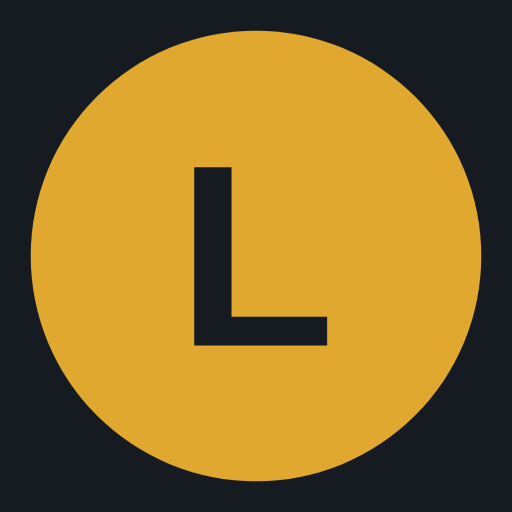
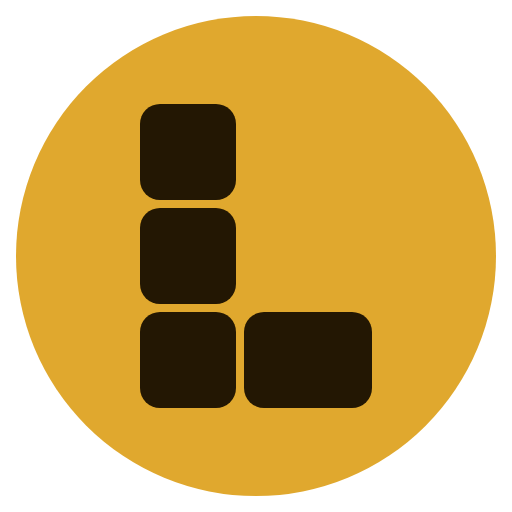
로고: 금화 안의 블록 L, 그리고 아이콘 한 곳에서 만들기
탭에 리액트 로고가 떠 있었다. create-react-app 이 넣어 준 favicon.ico 를
한 번도 갈아 끼우지 않아서다 — 남의 상표를 달고 있었던 셈이다.
헤더의 마크도 원 안에 글자 "L" 을 얹은 임시방편이었다.

마크
- 금화 안에 블록 네 개로 쌓은 L. 세로로 셋, 오른쪽 아래로 뻗은 발 하나.
  블록 사이의 틈이 "이어 붙인 블록"을 말한다.
- 시안 다섯 개를 16px 부터 512px 까지 실제 크기로 그려 놓고 골랐다.
  틈을 넓게 벌린 안은 512px 에서는 그럴듯한데 16px 파비콘에서 점 세 개로
  뭉개졌다. 지금 틈은 1/64 이라 16px 에서는 사라져 통짜 L 로 읽히고
  48px 부터 블록이 드러난다.
- 색은 테마를 따르지 않는다. 처음에는 다른 요소처럼 --accent 를 썼는데
  라이트에서 원이 짙은 갈색이 되어 금화로 보이지 않았고, 무엇보다 탭의
  파비콘과 화면 속 로고가 서로 다른 물건처럼 보였다.

원본은 하나
- 모양은 src/logo.json 에만 있다. 화면 속 로고(Components/Logo)와
  파비콘·PWA 아이콘이 같은 좌표를 읽는다 — 헤더를 고쳤는데 파비콘만 옛
  모양으로 남는 일이 없게.
- scripts/icons.js 가 SVG 를 만들고, --png 를 붙이면 PNG 와 ICO 까지
  만든다. 의존성은 없고 PNG 만 헤드리스 크로미움이 필요하다.
- favicon.ico 는 16·32·48 세 장을 담은 PNG-in-ICO 로 직접 묶는다.
  ICO 는 BMP 만 담던 옛 형식이지만 요즘 브라우저는 안의 PNG 를 읽는다.
- icon.svg 의 바탕을 비웠다. 예전 판은 #161b22 사각형을 깔아서 밝은 탭
  막대에 검은 네모가 붙었다.

아이콘 6종이 브라우저에서 실제로 읽히는지 확인했고, 명암비는 라이트/다크
전 화면 AA 를 그대로 넘는다.

Claude-Session: https://claude.ai/code/session_01NjJpkQfTzKydrXPajxFNEQ

diff --git a/scripts/icons.js b/scripts/icons.js
@@ -1,0 +1,170 @@
+#!/usr/bin/env node
+/**
+ * 브랜드 마크에서 아이콘 파일을 만든다.
+ *
+ * 모양의 원본은 src/logo.json 하나뿐이다. 화면 안의 로고(Components/Logo)와
+ * 파비콘·PWA 아이콘이 같은 좌표를 쓴다 — 예전처럼 헤더의 로고를 고쳤는데
+ * 파비콘은 옛 모양으로 남는 일이 없게.
+ *
+ *   node scripts/icons.js         SVG 만 다시 만든다 (의존성 없음)
+ *   node scripts/icons.js --png   PNG·ICO 까지 (헤드리스 크로미움이 필요하다)
+ *
+ * --png 는 playwright-core 와 크로미움을 찾을 수 있을 때만 된다. 아이콘은
+ * 자주 바꾸는 것이 아니라 결과물을 저장소에 함께 두고, 마크를 고칠 때만
+ * 이 명령을 돌린다.
+ *
+ *   npm i -D playwright-core && node scripts/icons.js --png
+ *   PLAYWRIGHT_CHROMIUM=/경로/chrome node scripts/icons.js --png
+ */
+const fs = require("fs");
+const path = require("path");
+const logo = require("../src/logo.json");
+
+const OUT = path.resolve(__dirname, "..", "public");
+const { viewBox: V, disc, rx, blocks, gold, ink, backdrop } = logo;
+
+const rects = (fill, scale = 1, cx = V / 2, cy = V / 2) =>
+  blocks
+    .map(([x, y, w, h]) => {
+      const nx = (cx + (x - V / 2) * scale).toFixed(2);
+      const ny = (cy + (y - V / 2) * scale).toFixed(2);
+      return `<rect x="${nx}" y="${ny}" width="${(w * scale).toFixed(2)}" height="${(h * scale).toFixed(2)}" rx="${(rx * scale).toFixed(2)}" fill="${fill}"/>`;
+    })
+    .join("");
+
+const open = size =>
+  `<svg xmlns="http://www.w3.org/2000/svg" width="${size}" height="${size}" viewBox="0 0 ${V} ${V}">`;
+
+/*
+ * 바탕이 비어 있는 판. 브라우저 탭이 밝든 어둡든 금화만 떠 있으면 된다.
+ * 예전 판은 #161b22 사각형을 깔아서, 밝은 탭 막대에 검은 네모가 붙었다.
+ */
+const plain = size => `${open(size)}
+  <circle cx="${disc.cx}" cy="${disc.cy}" r="${disc.r}" fill="${gold}"/>
+  ${rects(ink)}
+</svg>
+`;
+
+/*
+ * iOS 홈 화면용. 애플이 알아서 모서리를 둥글려 주므로 바탕을 꽉 채운다 —
+ * 투명하게 두면 검은 사각형 위에 얹힌다.
+ */
+const filled = size => `${open(size)}
+  <rect width="${V}" height="${V}" fill="${gold}"/>
+  ${rects(ink, 0.72)}
+</svg>
+`;
+
+/*
+ * 안드로이드 maskable. 기기마다 원·둥근사각형 등으로 잘라 내므로,
+ * 가장자리 20% 안에는 아무것도 두지 않는다(안전 영역 = 지름의 80%).
+ */
+const maskable = size => `${open(size)}
+  <rect width="${V}" height="${V}" fill="${backdrop}"/>
+  <circle cx="${disc.cx}" cy="${disc.cy}" r="${disc.r * 0.8}" fill="${gold}"/>
+  ${rects(ink, 0.8)}
+</svg>
+`;
+
+const SVGS = {
+  "icon.svg": plain(512),
+  "icon-apple.svg": filled(512),
+  "icon-maskable.svg": maskable(512)
+};
+
+const writeSvgs = () => {
+  Object.entries(SVGS).forEach(([name, body]) => {
+    fs.writeFileSync(path.join(OUT, name), body);
+    console.log(`${name}`);
+  });
+};
+
+/*
+ * PNG 여러 장을 ICO 한 장으로 묶는다.
+ *
+ * ICO 는 BMP 만 담을 수 있던 옛 형식이지만, 요즘 브라우저는 안에 PNG 가
+ * 들어 있어도 읽는다. 그래서 PNG 를 그대로 넣는다 — BMP 인코더를 쓸 이유가 없다.
+ */
+const packIco = images => {
+  const count = images.length;
+  const header = Buffer.alloc(6);
+  header.writeUInt16LE(0, 0); // reserved
+  header.writeUInt16LE(1, 2); // 1 = 아이콘
+  header.writeUInt16LE(count, 4);
+
+  const dir = Buffer.alloc(16 * count);
+  let offset = 6 + 16 * count;
+  images.forEach(({ size, data }, i) => {
+    const at = i * 16;
+    dir.writeUInt8(size >= 256 ? 0 : size, at); // 0 은 256 을 뜻한다
+    dir.writeUInt8(size >= 256 ? 0 : size, at + 1);
+    dir.writeUInt8(0, at + 2); // 팔레트 색 수 (PNG 라 0)
+    dir.writeUInt8(0, at + 3); // reserved
+    dir.writeUInt16LE(1, at + 4); // 색면 수
+    dir.writeUInt16LE(32, at + 6); // 비트 깊이
+    dir.writeUInt32LE(data.length, at + 8);
+    dir.writeUInt32LE(offset, at + 12);
+    offset += data.length;
+  });
+
+  return Buffer.concat([header, dir, ...images.map(i => i.data)]);
+};
+
+const writePngs = async () => {
+  let chromium;
+  try {
+    ({ chromium } = require("playwright-core"));
+  } catch (e) {
+    console.error(
+      "PNG 를 만들려면 playwright-core 가 필요합니다:\n" +
+        "  npm i -D playwright-core && node scripts/icons.js --png\n" +
+        "SVG 만 다시 만들었습니다."
+    );
+    process.exitCode = 1;
+    return;
+  }
+
+  const browser = await chromium.launch(
+    process.env.PLAYWRIGHT_CHROMIUM ? { executablePath: process.env.PLAYWRIGHT_CHROMIUM } : {}
+  );
+  const shoot = async (svg, size) => {
+    const ctx = await browser.newContext({
+      viewport: { width: size, height: size },
+      deviceScaleFactor: 1
+    });
+    const page = await ctx.newPage();
+    await page.setContent(`<style>html,body{margin:0;padding:0}</style>${svg}`);
+    await page.waitForTimeout(120);
+    const buffer = await page.screenshot({ omitBackground: true });
+    await ctx.close();
+    return buffer;
+  };
+
+  const jobs = [
+    ["icon-192.png", plain, 192],
+    ["icon-512.png", plain, 512],
+    ["icon-maskable-512.png", maskable, 512],
+    ["apple-touch-icon.png", filled, 180]
+  ];
+  for (const [name, make, size] of jobs) {
+    fs.writeFileSync(path.join(OUT, name), await shoot(make(size), size));
+    console.log(`${name} ${size}x${size}`);
+  }
+
+  // 파비콘은 16·32·48 세 장을 한 파일에 담는다 (브라우저가 골라 쓴다)
+  const images = [];
+  for (const size of [16, 32, 48]) {
+    images.push({ size, data: await shoot(plain(size), size) });
+  }
+  fs.writeFileSync(path.join(OUT, "favicon.ico"), packIco(images));
+  console.log("favicon.ico 16/32/48");
+
+  await browser.close();
+};
+
+(async () => {
+  writeSvgs();
+  if (process.argv.includes("--png")) {
+    await writePngs();
+  }
+})();

diff --git a/src/Components/Logo/Logo.js b/src/Components/Logo/Logo.js
@@ -1,0 +1,59 @@
+import React from "react";
+import PropTypes from "prop-types";
+import logo from "../../logo.json";
+
+/*
+ * LimCoin 마크.
+ *
+ * 금화(원) 안에 블록 네 개로 쌓은 L — 세로로 셋, 오른쪽 아래로 뻗은 발 하나.
+ * 블록 사이의 틈이 "이어 붙인 블록"을 말한다.
+ *
+ * 작은 데서 무너지지 않는 것을 첫 조건으로 잡았다. 틈을 넓게 벌린 시안은
+ * 512px 에서는 그럴듯한데 16px 파비콘에서 점 세 개로 뭉개졌다. 지금 틈은
+ * 1/64 이라 16px 에서는 사라져 통짜 L 로 읽히고, 48px 부터 블록이 보인다.
+ *
+ * 색은 **테마를 따르지 않는다.** 라이트/다크 어느 쪽에서도 같은 금색 원에
+ * 같은 검은 블록이다. 처음에는 다른 요소들처럼 테마 토큰(--accent)을 썼는데,
+ * 라이트에서 원이 짙은 갈색(#936615)이 되어 "금화"로 보이지 않았고 무엇보다
+ * **탭의 파비콘과 화면 속 로고가 서로 다른 물건처럼** 보였다. 상표는 배경이
+ * 바뀐다고 색이 바뀌는 것이 아니다.
+ *
+ * 흰 배경 위에서 금색 원의 테두리 대비는 약하지만, 안의 검은 블록이 형태를
+ * 잡아 준다. 명암비 기준(WCAG 1.4.11)도 로고타입은 대상에서 빼 준다.
+ *
+ * 모양의 원본은 src/logo.json 이다. 여기서 좌표를 고치지 말 것 —
+ * 파비콘·PWA 아이콘이 같은 파일에서 만들어진다(scripts/icons.js).
+ */
+const Logo = ({ size, disc, ink, title }) => (
+  <svg
+    width={size}
+    height={size}
+    viewBox={`0 0 ${logo.viewBox} ${logo.viewBox}`}
+    role={title ? "img" : "presentation"}
+    aria-label={title || undefined}
+    aria-hidden={title ? undefined : "true"}
+    style={{ flex: "none", display: "block" }}
+  >
+    <circle cx={logo.disc.cx} cy={logo.disc.cy} r={logo.disc.r} fill={disc} />
+    {logo.blocks.map(([x, y, w, h]) => (
+      <rect key={`${x}-${y}`} x={x} y={y} width={w} height={h} rx={logo.rx} fill={ink} />
+    ))}
+  </svg>
+);
+
+Logo.propTypes = {
+  size: PropTypes.number,
+  disc: PropTypes.string,
+  ink: PropTypes.string,
+  // 글자로 읽어 줄 이름. 옆에 "LimCoin" 이 적혀 있으면 비워 둔다(두 번 읽힌다).
+  title: PropTypes.string
+};
+
+Logo.defaultProps = {
+  size: 26,
+  disc: logo.gold,
+  ink: logo.ink,
+  title: ""
+};
+
+export default Logo;

diff --git a/src/Components/Header/HeaderPresenter.js b/src/Components/Header/HeaderPresenter.js
@@ -5,6 +5,7 @@ import { Link, NavLink } from "react-router-dom";
 import { breakpoint, radius, space, tap } from "../../theme";
 import Search from "Components/Search";
 import ThemeToggle from "Components/ThemeToggle";
+import Logo from "Components/Logo";
 
 const Bar = styled.header`
   width: 100%;
@@ -47,18 +48,6 @@ const Brand = styled(Link)`
   @media (max-width: ${breakpoint.sm}) {
     min-height: ${tap.touch};
   }
-`;
-
-const Coin = styled.span`
-  display: grid;
-  place-items: center;
-  width: 26px;
-  height: 26px;
-  border-radius: 50%;
-  background: var(--accent);
-  color: var(--surface);
-  font-size: 13px;
-  font-weight: 800;
 `;
 
 /*
@@ -169,7 +158,11 @@ const HeaderPresenter = ({ live }) => (
   <Bar>
     <Inner>
       <Brand to="/">
-        <Coin>L</Coin>
+        {/*
+          마크 옆에 "LimCoin" 이 글자로 붙어 있으므로 로고에는 이름을 주지
+          않는다 — 주면 화면 읽어 주는 도구가 "LimCoin LimCoin" 으로 읽는다.
+        */}
+        <Logo size={26} />
         LimCoin
         <Live on={live} title={live ? "노드와 연결되어 있습니다" : "연결이 끊겼습니다. 다시 붙는 중입니다."}>
           <span>{live ? "실시간" : "연결 끊김"}</span>

diff --git a/src/Components/Logo/index.js b/src/Components/Logo/index.js
@@ -1,0 +1,3 @@
+import Logo from "./Logo";
+
+export default Logo;

diff --git a/README.md b/README.md
@@ -1,3 +1,5 @@
+<img src="public/icon.svg" width="72" height="72" alt="LimCoin">
+
 # LimCoin-Explorer
 
 React 로 만든 LimCoin 블록 익스플로러.
@@ -258,6 +260,32 @@ PORT=8080 API_URL=http://노드:3000 npm run serve
 
 첫 칠 이전에 `<html data-theme>` 를 붙이는 작은 동기 스크립트가
 `public/index.html` 에 있다. React 가 뜬 뒤에 붙이면 화면이 한 번 번쩍인다.
+
+## 로고
+
+브랜드 마크는 **금화 안에 블록 네 개로 쌓은 L** 이다 — 세로로 셋, 오른쪽
+아래로 뻗은 발 하나. 블록 사이의 틈이 "이어 붙인 블록"을 말한다.
+
+작은 데서 무너지지 않는 것을 첫 조건으로 잡았다. 틈을 넓게 벌린 시안은
+512px 에서는 그럴듯한데 16px 파비콘에서 점 세 개로 뭉개졌다. 지금 틈은
+1/64 이라 16px 에서는 사라져 통짜 L 로 읽히고, 48px 부터 블록이 드러난다.
+
+색은 **테마를 따르지 않는다.** 라이트에서도 같은 금화다. 처음에는 다른
+요소처럼 `--accent` 를 썼는데, 라이트에서 원이 짙은 갈색이 되어 금화로
+보이지 않았고 무엇보다 탭의 파비콘과 화면 속 로고가 서로 다른 물건처럼
+보였다.
+
+모양의 원본은 `src/logo.json` **하나뿐**이다. 화면 안의 로고
+(`Components/Logo`)와 파비콘·PWA 아이콘이 같은 좌표를 읽는다.
+
+```bash
+node scripts/icons.js         # SVG 만 (의존성 없음)
+node scripts/icons.js --png   # PNG·ICO 까지 (headless Chromium 필요)
+```
+
+`favicon.ico` 는 16·32·48 세 장을 담은 PNG-in-ICO 로 직접 묶는다
+(`scripts/icons.js` 의 `packIco`). 예전에는 **create-react-app 이 넣어 준
+리액트 로고가 그대로 남아 있었다** — 탭에 남의 상표가 떠 있었던 셈이다.
 
 ## 글꼴
 
